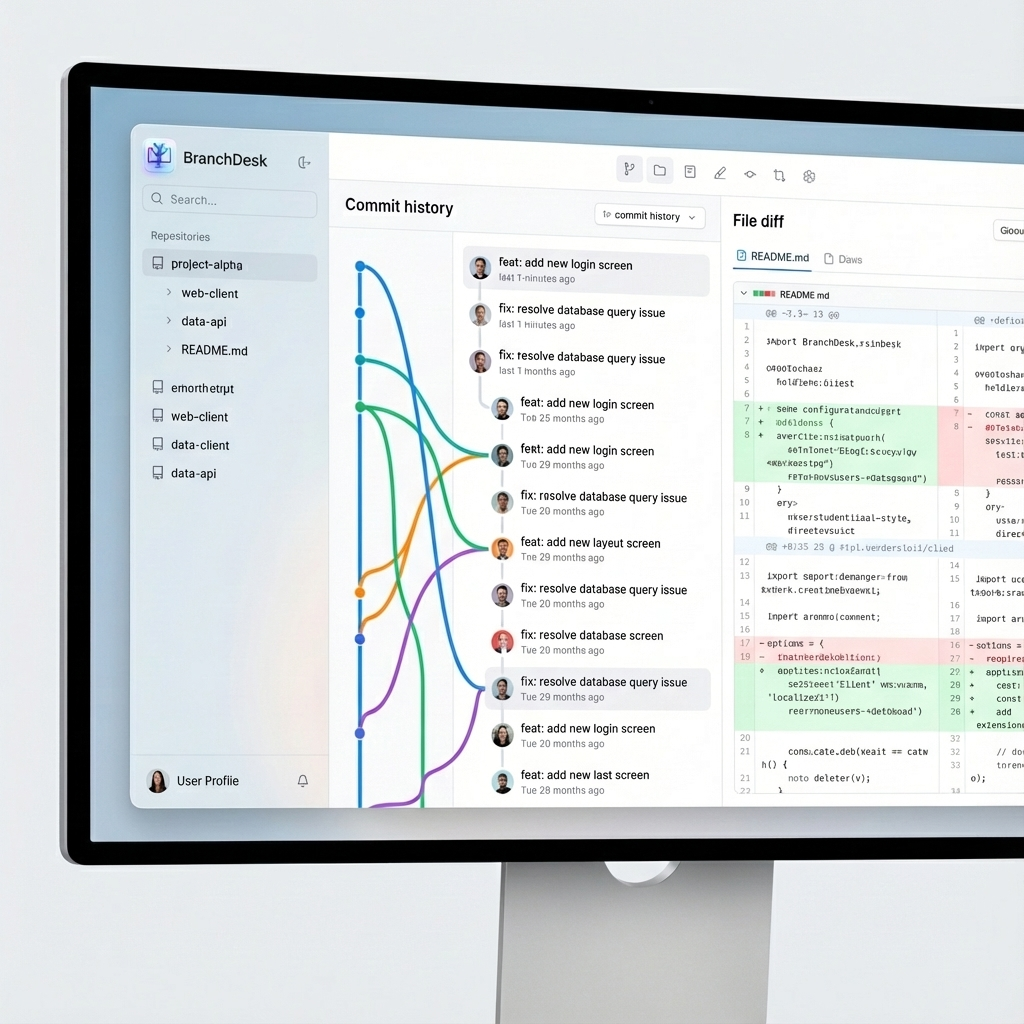
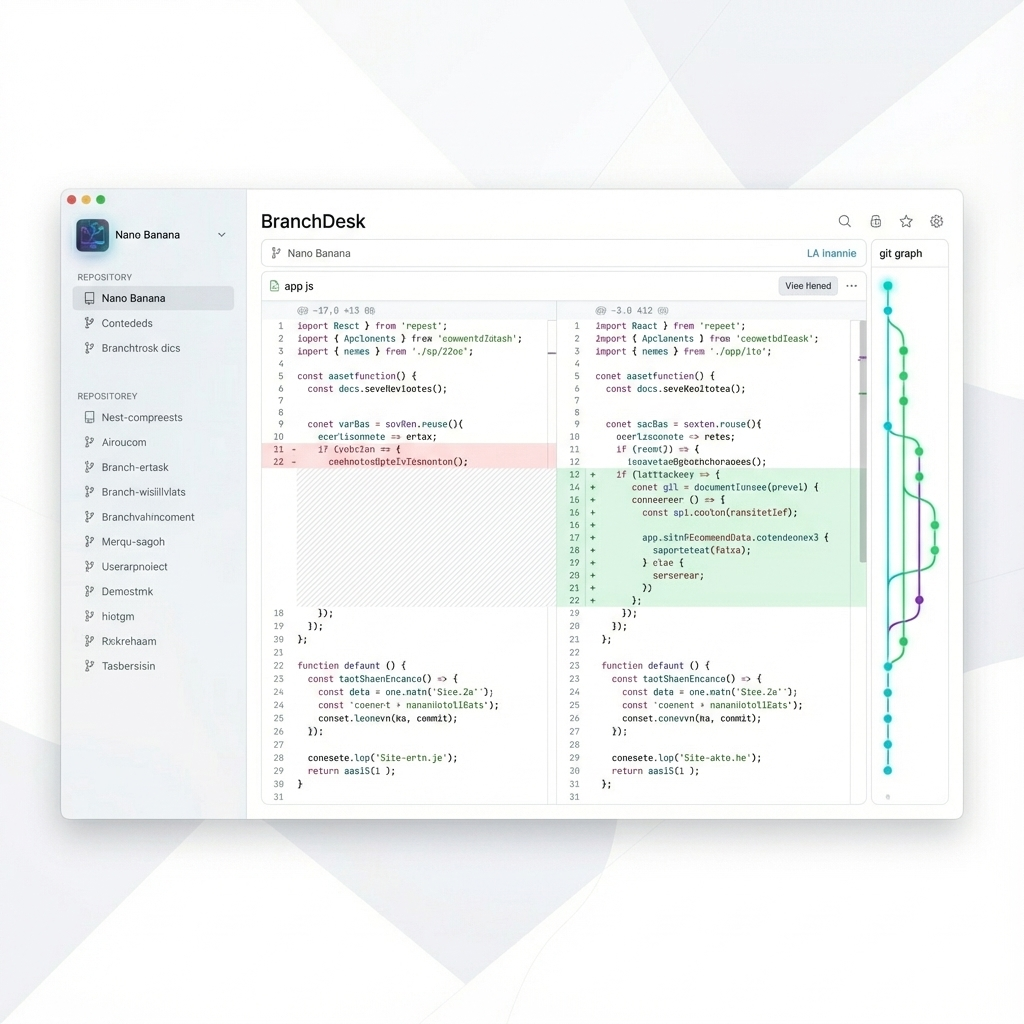
docs: Expand README with detailed project overview, features, roadmap, and contribution guidelines, and update light mode UI image.

diff --git a/README.md b/README.md
@@ -1,14 +1,202 @@
-# branchdesk
-BranchDesk is an open-source, cross-platform Git client for Windows, macOS, and Linux. It offers a clean, intuitive interface for managing commits, branches, merges, and repositories, making Git workflows faster and easier for developers of all levels.
+# BranchDesk 🚀
 
-## Visual Identity (Nano Banana Concept)
+BranchDesk is an **open-source, cross-platform Git client** for **Windows, macOS, and Linux**. It provides a **clean, intuitive, and visual interface** for managing repositories, commits, branches, and merges—making Git workflows faster and more approachable for developers of all skill levels.
+
+> 🛠 **Project Status:** Actively in development
+>
+> ⭐ Star the repo • 💬 Join discussions • 🧭 Help shape the roadmap
+
+---
+
+## ✨ Why BranchDesk?
+
+Git is powerful, but not always friendly. BranchDesk aims to:
+
+* Reduce cognitive load when working with Git
+* Provide a clean, distraction-free UI
+* Make branching, merging, and history easier to understand
+* Stay lightweight, fast, and open source
+
+Whether you're a beginner learning Git or an experienced developer managing complex repositories, BranchDesk is built for you.
+
+---
+
+## 🎨 Visual Identity (Nano Banana Concept)
 
 <div align="center">
   <img src="resources/logo.png" width="150" alt="BranchDesk Logo">
 </div>
 
-### Light Mode
+### 🌞 Light Mode
+
 ![Light Mode UI](resources/ui_light.png)
 
-### Dark Mode
+### 🌙 Dark Mode
+
 ![Dark Mode UI](resources/ui_dark.png)
+
+---
+
+## 🧩 Features (Planned & In Progress)
+
+* Cross-platform support (Windows, macOS, Linux)
+* Repository cloning and management
+* Visual commit history
+* Branch creation and switching
+* Staging and committing changes
+* Merge and conflict handling
+* Clean diff viewer
+* Light & Dark themes
+
+> Full feature breakdown is available in the **Public Roadmap** below.
+
+---
+
+## 🗺 Public Roadmap
+
+This roadmap represents the current vision for BranchDesk. It is **community-driven** and subject to change based on feedback and contributions.
+
+---
+
+### 🧩 Phase 1 – MVP (Foundation)
+
+**Goal:** Deliver a stable, usable Git client covering essential daily workflows.
+
+**Repository Management**
+
+* Clone repositories (HTTPS & SSH)
+* Add existing local repositories
+* Create new repositories
+* Open repository in file explorer
+* Open repository in default code editor
+
+**Branch Management**
+
+* View current branch
+* Create new branches
+* Checkout / switch branches
+* Delete local branches
+
+**Commit Workflow**
+
+* View changed files
+* Stage / unstage files
+* Commit changes
+* Commit history list
+
+**Sync**
+
+* Fetch from remote
+* Pull changes
+* Push commits
+* Basic sync status (ahead / behind)
+
+**Diff Viewer**
+
+* File-level diff view
+* Added / removed line highlighting
+
+---
+
+### 🌿 Phase 2 – Core Git Experience
+
+**Goal:** Match core features developers expect from a modern Git GUI.
+
+* Partial staging (line-level)
+* Amend last commit
+* Revert commits
+* Cherry-pick commits
+* Rename branches
+* Publish local branches
+* Track upstream branches
+* Compare branches
+* Reset branch to commit
+* Merge branches via UI
+* Rebase support
+* Conflict detection & resolution indicators
+* Commit history search & filtering
+
+---
+
+### 🔀 Phase 3 – GitHub & Remote Integration
+
+**Goal:** Improve collaboration and remote workflows.
+
+* GitHub authentication (OAuth / token)
+* Open repository on GitHub
+* Fork repositories
+* Create pull requests (via browser)
+* View PR-related branches
+* Multiple remotes support
+* Private repository handling
+
+---
+
+### ⚙ Phase 4 – Productivity & Customization
+
+**Goal:** Improve speed, comfort, and personalization.
+
+* Keyboard shortcuts
+* Discard / undo changes
+* Stash, apply, and pop stashes
+* .gitignore editor
+* Configure Git username & email
+* Default branch configuration
+* Editor selection
+* Theme support (Light / Dark)
+* Localization support
+* Status indicators & notifications
+
+---
+
+### 🚀 Phase 5 – Advanced & Power Features
+
+**Goal:** Support advanced Git users and teams.
+
+* Visual commit graph
+* Tags management
+* Blame view
+* Submodule support
+* Git LFS support
+* Hooks management
+* Plugin / extension system
+
+---
+
+## 🤝 Contributing
+
+BranchDesk is built **in public** and contributions are welcome.
+
+You can help by:
+
+* ⭐ Starring the repository
+* 🐞 Reporting bugs
+* 💡 Suggesting features
+* 🔧 Submitting pull requests
+* 📝 Improving documentation
+
+Please check the `CONTRIBUTING.md` (coming soon) for guidelines.
+
+---
+
+## 💬 Community & Discussions
+
+Have ideas or feedback? Join the discussion and help shape the future of BranchDesk.
+
+* Share feature requests
+* Discuss UI/UX ideas
+* Vote on roadmap priorities
+
+---
+
+## 📜 License
+
+BranchDesk is released under the **MIT License**.
+
+---
+
+## ❤ Acknowledgements
+
+Built by developers, for developers. Inspired by the need for a fast, friendly, and open Git client.
+
+If you like the project, consider giving it a ⭐ and spreading the word!
